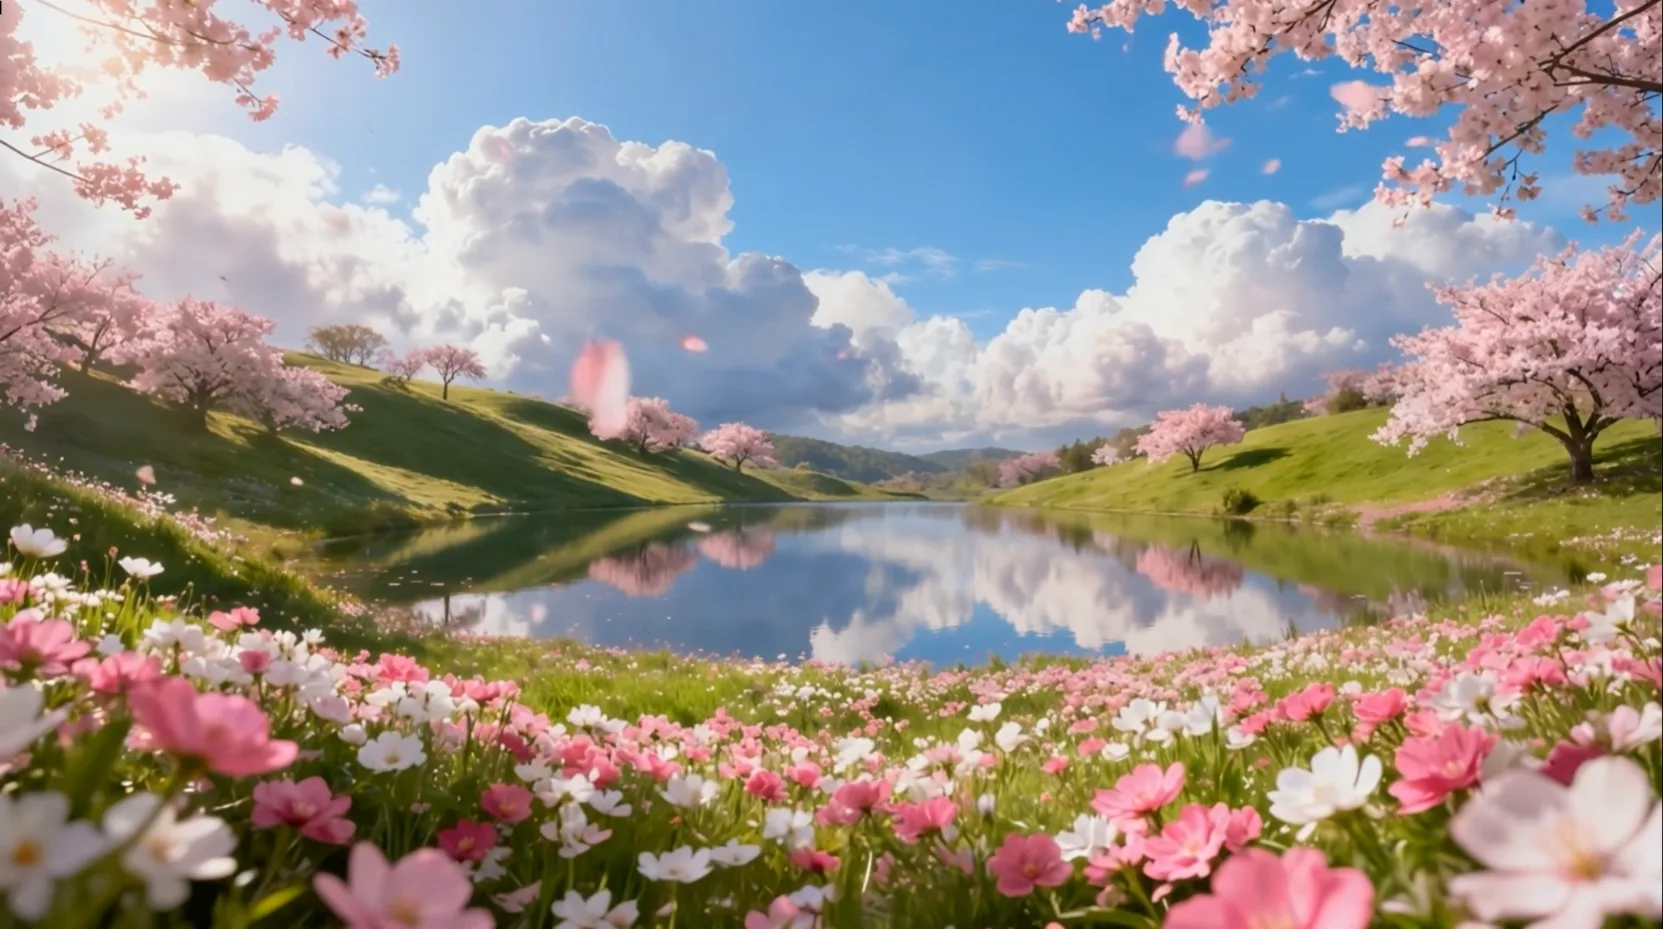
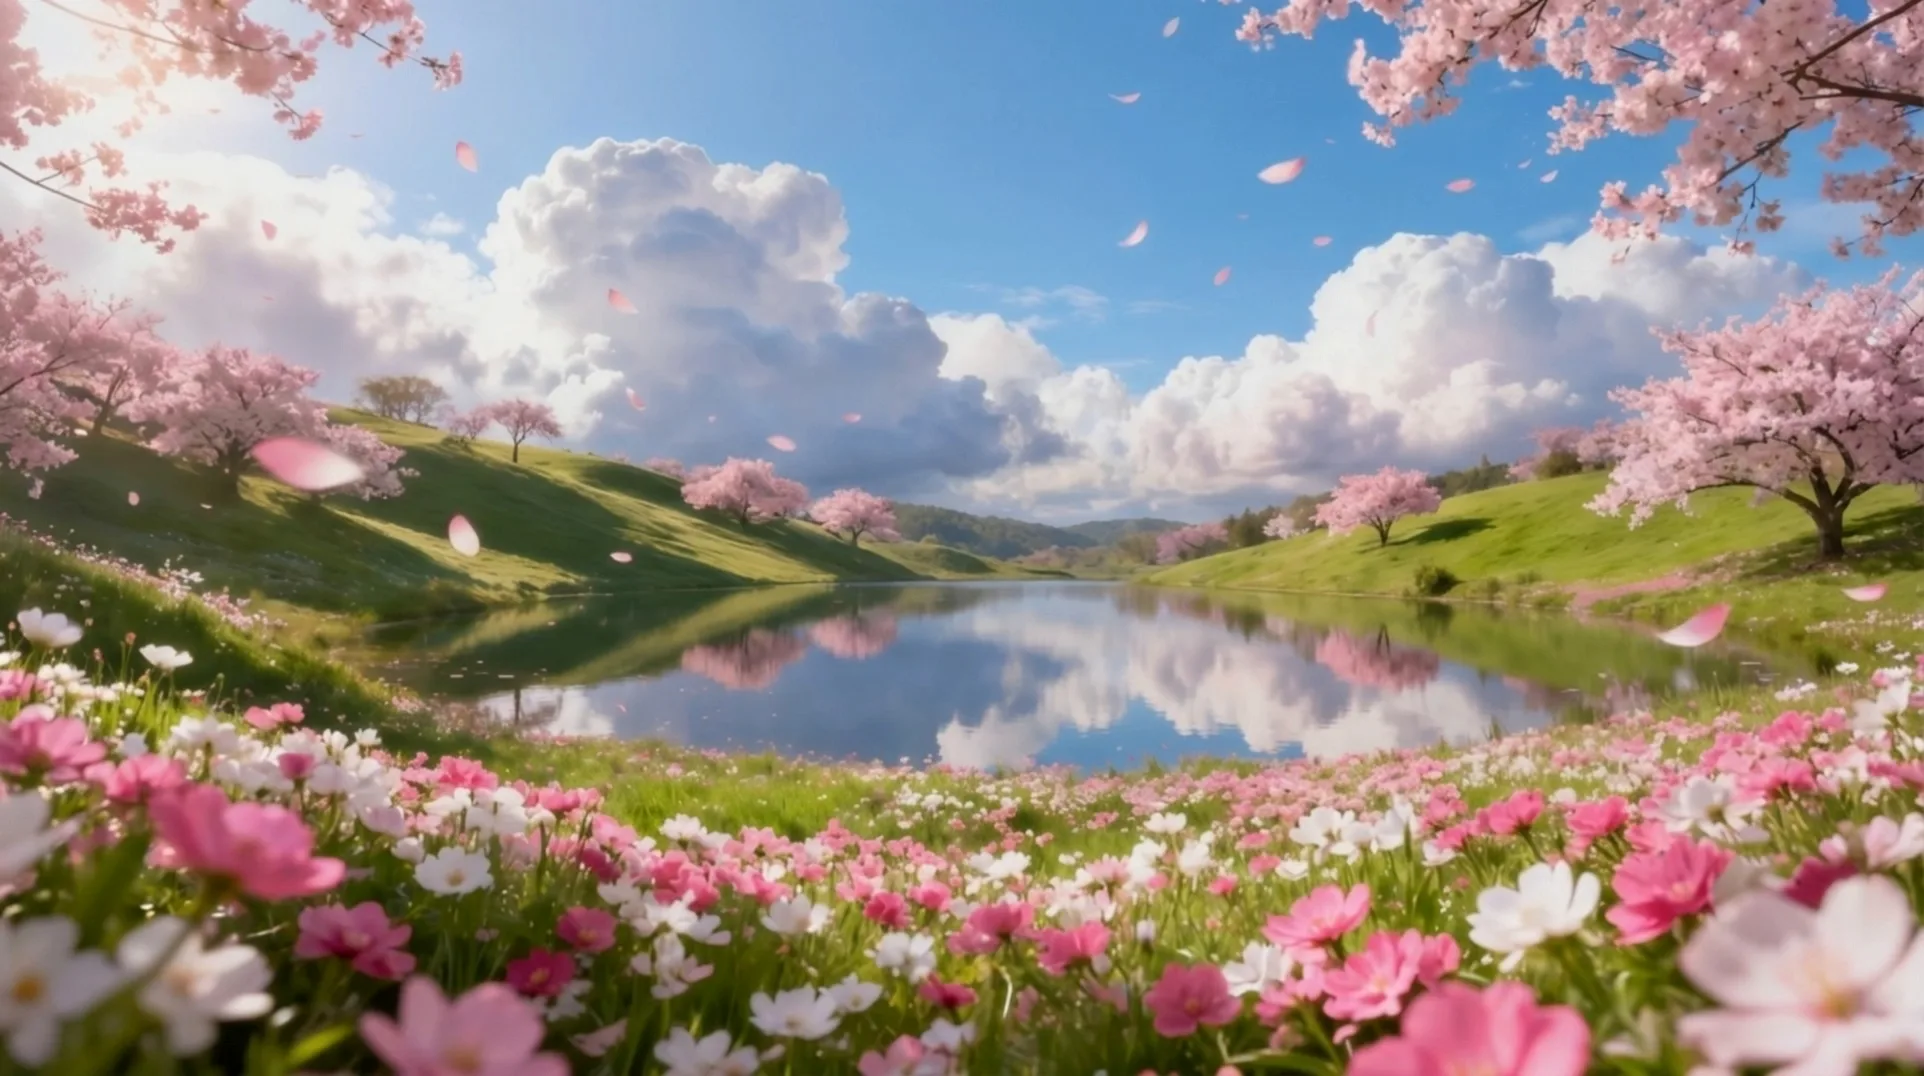
feat(home): 首屏并行加载背景视频与首帧海报
1、首页首屏先展示配置的视频首帧海报，同时并行请求背景视频，视频开始播放后以 100ms 淡入切换，避免视频加载阻塞首屏。

2、按配置的视频地址隔离媒体状态，保留浏览器缓存复用能力，地址变化时不会沿用旧播放状态。

3、更新开发种子首帧海报资源，并补充首页视频加载测试、前端测试脚本和 CI 测试步骤。

diff --git a/frontend/src/pages/Index.tsx b/frontend/src/pages/Index.tsx
@@ -5,7 +5,6 @@ import HeroContent from "@/components/HeroContent";
 import LazyOnVisible from "@/components/LazyOnVisible";
 import PageMeta from "@/components/PageMeta";
 import { useSiteConfig } from "@/contexts/runtime-config";
-import { useDeferredActivation } from "@/hooks/useDeferredActivation";
 import { scheduleIdleTask, shouldBackgroundPrefetch } from "@/lib/idle";
 import { lazyWithPreload } from "@/lib/lazy";
 
@@ -17,11 +16,16 @@ const Index = () => {
   const videoUrl = site.heroVideoUrl;
   const posterUrl = site.heroPosterUrl;
   const [videoFailed, setVideoFailed] = useState(false);
-  const videoActivated = useDeferredActivation(Boolean(videoUrl), [videoUrl]);
+  const [videoPlaying, setVideoPlaying] = useState(false);
   const fadeTo = resolvedTheme === "dark" ? "hsl(0 0% 4%)" : "hsl(0 0% 100%)";
   const heroOverlayClass = "bg-black/12";
-  const showVideo = Boolean(videoUrl) && videoActivated && !videoFailed;
+  const showVideo = Boolean(videoUrl) && !videoFailed;
   const showImageFallback = Boolean(posterUrl);
+
+  useEffect(() => {
+    setVideoPlaying(false);
+    setVideoFailed(false);
+  }, [videoUrl]);
 
   useEffect(() => {
     if (!shouldBackgroundPrefetch()) {
@@ -54,18 +58,23 @@ const Index = () => {
 
         {/* Background Video */}
         {showVideo && (
-        <video
-          className="absolute inset-0 w-full h-full object-cover z-0"
-          autoPlay
-          loop
-          muted
-          playsInline
-          preload="metadata"
-          poster={posterUrl}
-          onError={() => setVideoFailed(true)}
-        >
-          <source src={videoUrl} type="video/mp4" />
-        </video>
+          <video
+            key={videoUrl}
+            className={`absolute inset-0 w-full h-full object-cover z-0 transition-opacity duration-100 ${videoPlaying ? "opacity-100" : "opacity-0"}`}
+            autoPlay
+            loop
+            muted
+            playsInline
+            preload="auto"
+            poster={posterUrl}
+            onPlaying={() => setVideoPlaying(true)}
+            onError={() => {
+              setVideoPlaying(false);
+              setVideoFailed(true);
+            }}
+          >
+            <source src={videoUrl} type="video/mp4" />
+          </video>
         )}
 
         {/* Overlay */}

diff --git a/frontend/src/hooks/useDeferredActivation.ts b/frontend/src/hooks/useDeferredActivation.ts
@@ -2,34 +2,58 @@ import { useEffect, useState } from "react";
 
 type Dependency = string | number | boolean | null | undefined;
 
-export function useDeferredActivation(enabled: boolean, deps: Dependency[] = []) {
+type DeferredActivationOptions = {
+  minimumDelayMs?: number;
+};
+
+export function useDeferredActivation(
+  enabled: boolean,
+  deps: Dependency[] = [],
+  options: DeferredActivationOptions = {},
+) {
   const [active, setActive] = useState(false);
+  const [activeDepsKey, setActiveDepsKey] = useState<string | null>(null);
   const depsKey = deps.join("|");
+  const minimumDelayMs = Math.max(0, options.minimumDelayMs ?? 0);
 
   useEffect(() => {
     if (!enabled) {
       setActive(false);
+      setActiveDepsKey(null);
       return;
     }
 
     let cancelled = false;
     let timeoutId: number | null = null;
     let idleId: number | null = null;
+    let delayTimeoutId: number | null = null;
 
     const activate = () => {
       if (!cancelled) {
+        setActiveDepsKey(depsKey);
         setActive(true);
       }
     };
 
-    if (typeof window !== "undefined" && "requestIdleCallback" in window) {
-      idleId = window.requestIdleCallback(activate, { timeout: 400 });
+    const queueIdleActivation = () => {
+      if (typeof window !== "undefined" && "requestIdleCallback" in window) {
+        idleId = window.requestIdleCallback(activate, { timeout: 400 });
+      } else {
+        timeoutId = window.setTimeout(activate, 180);
+      }
+    };
+
+    if (minimumDelayMs > 0) {
+      delayTimeoutId = window.setTimeout(queueIdleActivation, minimumDelayMs);
     } else {
-      timeoutId = window.setTimeout(activate, 180);
+      queueIdleActivation();
     }
 
     return () => {
       cancelled = true;
+      if (delayTimeoutId !== null) {
+        window.clearTimeout(delayTimeoutId);
+      }
       if (timeoutId !== null) {
         window.clearTimeout(timeoutId);
       }
@@ -37,7 +61,7 @@ export function useDeferredActivation(enabled: boolean, deps: Dependency[] = [])
         window.cancelIdleCallback(idleId);
       }
     };
-  }, [enabled, depsKey]);
+  }, [enabled, depsKey, minimumDelayMs]);
 
-  return active;
+  return active && activeDepsKey === depsKey;
 }
